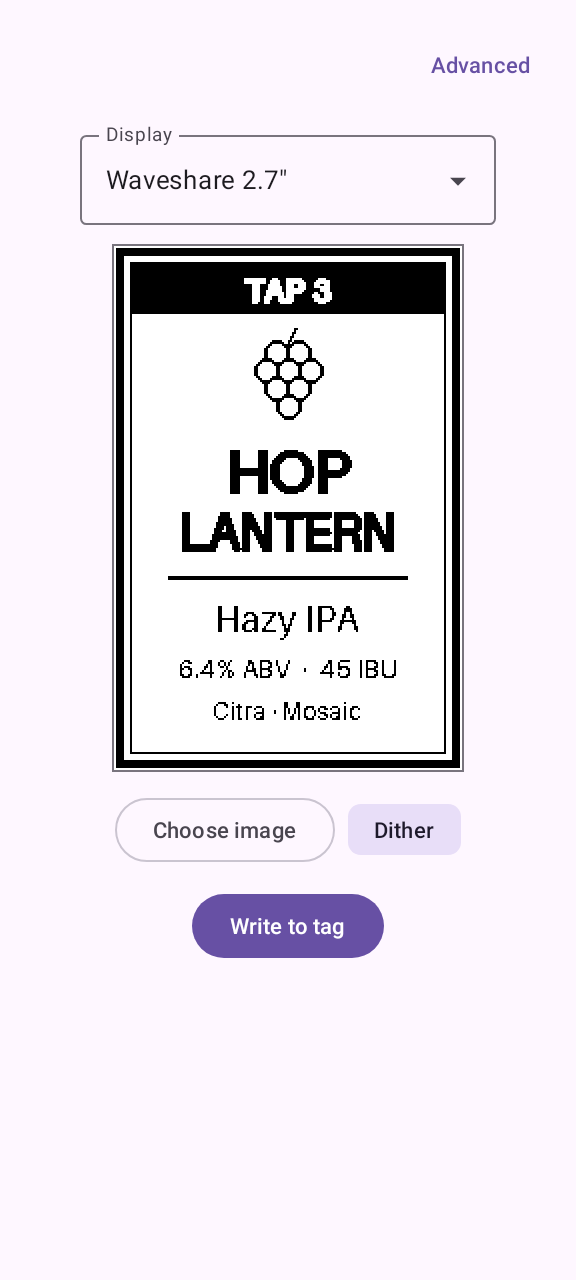
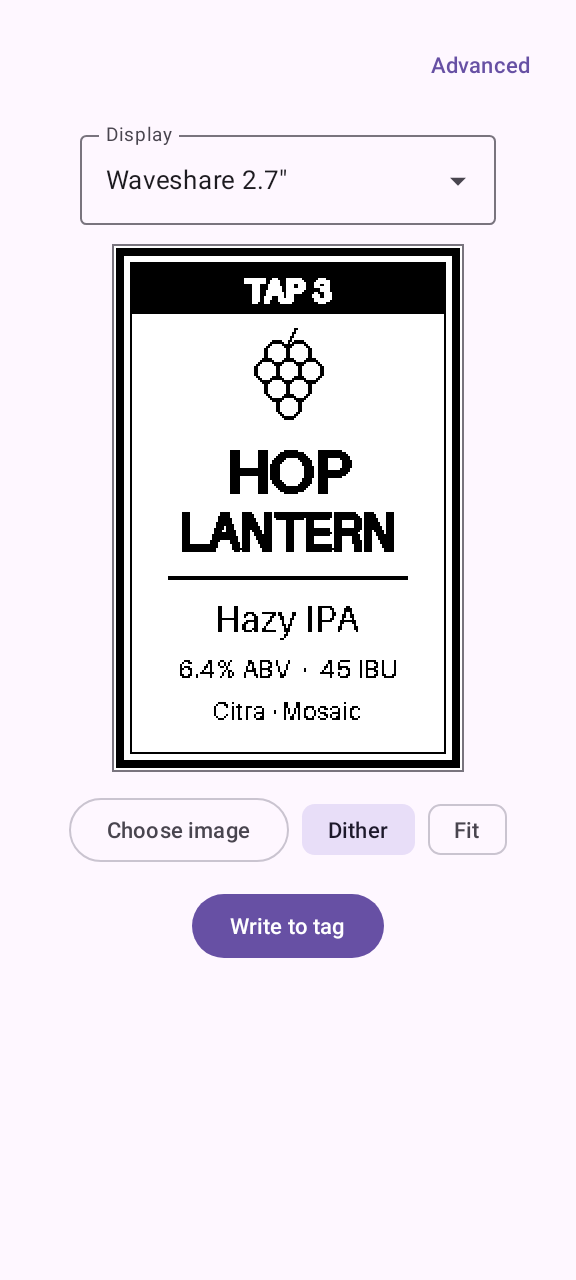
feat(image): fit the whole image to the display
A Fit toggle (off by default) scales the whole image to fit inside the
display's view, centered on white, instead of center-cropping it to fill
the view. A label made for one display then shows in full on another.

Refs #156

Claude-Session: https://claude.ai/code/session_01CSVrYTaHT3oZAKmMpNWTQj

Changed region(s): [[0.1875, 0.625, 0.8438, 0.6875]]

diff --git a/sharedUI/src/commonMain/kotlin/io/github/cacack/keginker/WriteSession.kt b/sharedUI/src/commonMain/kotlin/io/github/cacack/keginker/WriteSession.kt
@@ -33,7 +33,7 @@ class WriteSession(
     private var source: FittedImage? = null
 
     /** [source], or the test pattern, cropped and scaled to the display's view. */
-    private var fitted = fit(null, display)
+    private var fitted = fit(null, display, letterbox = false)
 
     private val sourceIsTestPattern get() = source == null
 
@@ -47,6 +47,11 @@ class WriteSession(
 
     /** Whether labels are in color on displays that show it; otherwise black and white. */
     val color: StateFlow<Boolean> = mutableColor
+
+    private val mutableLetterbox = MutableStateFlow(false)
+
+    /** Whether the whole image shows, on white; otherwise it's center-cropped to fill the view. */
+    val letterbox: StateFlow<Boolean> = mutableLetterbox
 
     /** The image exactly as the display will show it: indices into its palette. */
     private val mutableView = MutableStateFlow(renderView(display, fitted, mutableDither.value, mutableColor.value))
@@ -82,7 +87,7 @@ class WriteSession(
         if (writing || display == mutableDisplay.value) return
         mutableDisplay.value = display
         controller.choose(display)
-        fitted = fit(source, display)
+        fitted = fit(source, display, mutableLetterbox.value)
         rerender()
     }
 
@@ -98,6 +103,14 @@ class WriteSession(
     fun toggleColor() {
         if (writing) return
         mutableColor.value = !mutableColor.value
+        rerender()
+    }
+
+    /** Switches between filling the view and showing the whole image. Ignored while a write is running. */
+    fun toggleLetterbox() {
+        if (writing) return
+        mutableLetterbox.value = !mutableLetterbox.value
+        fitted = fit(source, mutableDisplay.value, mutableLetterbox.value)
         rerender()
     }
 
@@ -123,7 +136,7 @@ class WriteSession(
     private fun show(image: FittedImage, keepFailure: Boolean = false) {
         pendingSource = null
         source = image
-        fitted = fit(image, mutableDisplay.value)
+        fitted = fit(image, mutableDisplay.value, mutableLetterbox.value)
         rerender(keepFailure)
     }
 
@@ -138,17 +151,20 @@ class WriteSession(
 }
 
 /**
- * A loaded [image] cropped and scaled to every display's view, so choosing a
- * display or re-rendering needs no scaling. Scaling a photo takes a while:
- * make this off the main thread, then hand it to [WriteSession.imageLoaded].
+ * A loaded [image] scaled to every display's view, both cropped and
+ * letterboxed, so choosing a display or re-rendering needs no scaling.
+ * Scaling a photo takes a while: make this off the main thread, then hand it
+ * to [WriteSession.imageLoaded].
  */
 class FittedImage(image: ColorImage) {
-    private val views = LabelDisplay.entries.associateWith { fitView(it, image) }
+    private val filled = LabelDisplay.entries.associateWith { fitView(it, image) }
+    private val letterboxed = LabelDisplay.entries.associateWith { fitView(it, image, letterbox = true) }
 
-    /** The image cropped and scaled to [display]'s view. */
-    internal fun forDisplay(display: LabelDisplay): ColorImage = views.getValue(display)
+    /** The image scaled to [display]'s view: whole on white if [letterbox], otherwise cropped to fill it. */
+    internal fun forDisplay(display: LabelDisplay, letterbox: Boolean): ColorImage =
+        (if (letterbox) letterboxed else filled).getValue(display)
 }
 
-/** [image] for [display], or the test pattern at its size if null. */
-private fun fit(image: FittedImage?, display: LabelDisplay): ColorImage =
-    image?.forDisplay(display) ?: ColorImage.fromGray(testPattern(display.viewWidth, display.viewHeight))
+/** [image] for [display], or the test pattern at its size (which fits either way) if null. */
+private fun fit(image: FittedImage?, display: LabelDisplay, letterbox: Boolean): ColorImage =
+    image?.forDisplay(display, letterbox) ?: ColorImage.fromGray(testPattern(display.viewWidth, display.viewHeight))

diff --git a/iosApp/iosApp/ContentView.swift b/iosApp/iosApp/ContentView.swift
@@ -16,6 +16,8 @@ struct ContentView: View {
     @State private var threshold = Double(DitherThreshold.companion.DEFAULT_LEVEL)
     /// Whether labels are in color on displays that show it; otherwise black and white.
     @State private var color = true
+    /// Whether the whole image shows, on white; otherwise it's cropped to fill the view.
+    @State private var letterbox = false
     /// The image as `fitted.display` will show it; Write waits until that's the chosen display.
     @State private var view: KotlinByteArray?
     /// The preview, built once per render; body re-evaluates on every progress tick.
@@ -48,6 +50,7 @@ struct ContentView: View {
         .onChange(of: dither) { render() }
         .onChange(of: threshold) { render() }
         .onChange(of: color) { render() }
+        .onChange(of: letterbox) { fitInBackground() }
         .onChange(of: pickerItem) { load(pickerItem) }
     }
 
@@ -60,6 +63,7 @@ struct ContentView: View {
                     PhotosPicker("Choose image", selection: $pickerItem, matching: .images)
                         .buttonStyle(.bordered)
                     Toggle("Dither", isOn: $dither).toggleStyle(.button)
+                    Toggle("Fit", isOn: $letterbox).toggleStyle(.button)
                     if display.palette.hasColor {
                         Toggle("Color", isOn: $color).toggleStyle(.button)
                     }
@@ -167,7 +171,7 @@ struct ContentView: View {
     /// Fits and renders the first preview at once, so the screen opens with
     /// it; the app opens on the test pattern, which is quick to make.
     private func fitNow() {
-        fitted = Fitted(display: display, image: fit(source, to: display))
+        fitted = Fitted(display: display, image: fit(source, to: display, letterbox: letterbox))
         render()
     }
 
@@ -176,9 +180,10 @@ struct ContentView: View {
     private func fitInBackground() {
         let source = self.source
         let display = self.display
+        let letterbox = self.letterbox
         fitting?.cancel()
         fitting = Task {
-            let image = await Task.detached { fit(source, to: display) }.value
+            let image = await Task.detached { fit(source, to: display, letterbox: letterbox) }.value
             guard !Task.isCancelled else { return }
             fitted = Fitted(display: display, image: image)
             render()
@@ -212,15 +217,15 @@ struct ContentView: View {
     }
 }
 
-/// An image cropped and scaled to [display]'s view.
+/// An image scaled to [display]'s view.
 private struct Fitted {
     let display: LabelDisplay
     let image: ColorImage
 }
 
-/// Crops and scales [source], or makes the test pattern, for [display]. Scaling
+/// Scales [source], cropped or [letterbox]ed, or makes the test pattern, for [display]. Scaling
 /// a photo takes a while, so it runs off the main actor once the screen is up.
-private func fit(_ source: ColorImage?, to display: LabelDisplay) -> ColorImage {
-    source.map { LabelDisplayKt.fitView(display: display, image: $0) }
+private func fit(_ source: ColorImage?, to display: LabelDisplay, letterbox: Bool) -> ColorImage {
+    source.map { LabelDisplayKt.fitView(display: display, image: $0, letterbox: letterbox) }
         ?? ColorImage.companion.fromGray(image: TestPatternKt.testPattern(width: display.viewWidth, height: display.viewHeight))
 }

diff --git a/sharedUI/src/commonTest/kotlin/io/github/cacack/keginker/WriteSessionTest.kt b/sharedUI/src/commonTest/kotlin/io/github/cacack/keginker/WriteSessionTest.kt
@@ -137,7 +137,7 @@ class WriteSessionTest {
     }
 
     @Test
-    fun ditherAndThresholdAreIgnoredDuringAWrite() = runTest {
+    fun renderingChangesAreIgnoredDuringAWrite() = runTest {
         val session = session()
         val written = session.view.value
         session.write()
@@ -147,9 +147,11 @@ class WriteSessionTest {
         session.toggleDither()
         session.setThreshold(10)
         session.toggleColor()
+        session.toggleLetterbox()
 
         assertContentEquals(written, session.view.value)
         assertTrue(session.color.value)
+        assertEquals(false, session.letterbox.value)
         advanceUntilIdle()
         assertIs<WriteState.Done>(session.controller.state.value)
     }
@@ -200,6 +202,25 @@ class WriteSessionTest {
         session.toggleColor()
 
         assertTrue(session.view.value.all { it == BLACK || it == WHITE })
+        assertEquals(WriteState.Idle, session.controller.state.value)
+    }
+
+    @Test
+    fun fitShowsTheWholeImageOnWhiteAndDisarmsAWaitingWrite() = runTest {
+        val session = session()
+        session.choose(LabelDisplay.EZ_SIGN_2IN9)
+        session.imageLoaded(FittedImage(grayImage(2, 2, ByteArray(4))))
+        assertEquals(false, session.letterbox.value)
+        assertTrue(session.view.value.all { it == BLACK }, "a black square fills the view")
+        session.write()
+
+        session.toggleLetterbox()
+
+        // 128 × 296: the square scales to 128 × 128, with 84 white rows above and below.
+        val rows = session.view.value.toList().chunked(128)
+        assertTrue(rows.take(84).flatten().all { it == WHITE })
+        assertTrue(rows.drop(84).take(128).flatten().all { it == BLACK })
+        assertTrue(rows.drop(212).flatten().all { it == WHITE })
         assertEquals(WriteState.Idle, session.controller.state.value)
     }
 
@@ -260,8 +281,13 @@ class WriteSessionTest {
                 }
                 1 -> {
                     if (random.nextInt(4) == 0) {
-                        steps += "toggle color"
-                        session.toggleColor()
+                        if (random.nextBoolean()) {
+                            steps += "toggle color"
+                            session.toggleColor()
+                        } else {
+                            steps += "toggle letterbox"
+                            session.toggleLetterbox()
+                        }
                     } else {
                         val level = random.nextInt(-10, 266)
                         steps += "threshold $level"

diff --git a/sharedLogic/src/commonMain/kotlin/io/github/cacack/keginker/LabelDisplay.kt b/sharedLogic/src/commonMain/kotlin/io/github/cacack/keginker/LabelDisplay.kt
@@ -6,6 +6,7 @@ import io.github.cacack.keginker.image.Dither
 import io.github.cacack.keginker.image.Palette
 import io.github.cacack.keginker.image.WHITE
 import io.github.cacack.keginker.image.fill
+import io.github.cacack.keginker.image.letterbox
 import io.github.cacack.keginker.image.toBlackWhite
 import io.github.cacack.keginker.image.toPalette
 import io.github.cacack.keginker.waveshare.WavesharePanel
@@ -97,15 +98,18 @@ enum class LabelDisplay(
 }
 
 /**
- * [image] center-cropped and scaled to [display]'s view, ready for
- * [renderView]: in color where the display shows it, otherwise just the gray.
+ * [image] scaled to [display]'s view, ready for [renderView]: center-cropped
+ * to fill it, or whole on white if [letterbox]. In color where the display
+ * shows it, otherwise just the gray.
  */
-fun fitView(display: LabelDisplay, image: ColorImage): ColorImage =
-    if (display.palette.hasColor) {
-        image.fill(display.viewWidth, display.viewHeight)
+fun fitView(display: LabelDisplay, image: ColorImage, letterbox: Boolean = false): ColorImage {
+    val shown = if (display.palette.hasColor) image else ColorImage.fromGray(image.gray)
+    return if (letterbox) {
+        shown.letterbox(display.viewWidth, display.viewHeight)
     } else {
-        ColorImage.fromGray(image.gray.fill(display.viewWidth, display.viewHeight))
+        shown.fill(display.viewWidth, display.viewHeight)
     }
+}
 
 /**
  * The image exactly as [display] will show it: row-major indices into its

diff --git a/sharedLogic/src/commonMain/kotlin/io/github/cacack/keginker/image/Resize.kt b/sharedLogic/src/commonMain/kotlin/io/github/cacack/keginker/image/Resize.kt
@@ -41,6 +41,28 @@ fun GrayImage.fill(width: Int, height: Int): GrayImage {
     return GrayImage(width, height, out)
 }
 
+/**
+ * Scales to fit inside [width] × [height], keeping the aspect ratio, and
+ * centers the result on white: the whole image shows, with white bars on
+ * the sides its shape leaves empty.
+ */
+fun GrayImage.letterbox(width: Int, height: Int): GrayImage {
+    require(width > 0 && height > 0) { "Target must be at least 1×1, was ${width}×$height" }
+    val wide = this.width.toLong() * height >= this.height.toLong() * width
+    val innerWidth = if (wide) width else roundedScale(this.width, height, this.height).coerceIn(1, width)
+    val innerHeight = if (wide) roundedScale(this.height, width, this.width).coerceIn(1, height) else height
+    val inner = fill(innerWidth, innerHeight)
+    val left = (width - innerWidth) / 2
+    val top = (height - innerHeight) / 2
+
+    val out = ByteArray(width * height) { 255.toByte() }
+    for (y in 0 until innerHeight) inner.pixels.copyInto(out, (top + y) * width + left, y * innerWidth, (y + 1) * innerWidth)
+    return GrayImage(width, height, out)
+}
+
+/** [length] × [to] / [from], rounded to the nearest whole pixel. */
+private fun roundedScale(length: Int, to: Int, from: Int) = ((2L * length * to + from) / (2L * from)).toInt()
+
 /** The source pixels from [first] on that one output cell overlaps along an axis, and by how many units each. */
 private class Coverage(val first: Int, val weights: LongArray)
 

diff --git a/sharedLogic/src/commonMain/kotlin/io/github/cacack/keginker/image/ColorImage.kt b/sharedLogic/src/commonMain/kotlin/io/github/cacack/keginker/image/ColorImage.kt
@@ -42,10 +42,16 @@ class ColorImage(val gray: GrayImage, val red: GrayImage, val green: GrayImage, 
     }
 }
 
-/** Every channel [fill]ed to exactly [width] × [height]; a gray image's one channel, once. */
-fun ColorImage.fill(width: Int, height: Int): ColorImage =
+/** Every channel [fill]ed to exactly [width] × [height]. */
+fun ColorImage.fill(width: Int, height: Int): ColorImage = mapChannels { it.fill(width, height) }
+
+/** Every channel [letterbox]ed into [width] × [height], on white. */
+fun ColorImage.letterbox(width: Int, height: Int): ColorImage = mapChannels { it.letterbox(width, height) }
+
+/** [transform] applied to every channel; a gray image's one channel, once. */
+private fun ColorImage.mapChannels(transform: (GrayImage) -> GrayImage): ColorImage =
     if (red === gray && green === gray && blue === gray) {
-        ColorImage.fromGray(gray.fill(width, height))
+        ColorImage.fromGray(transform(gray))
     } else {
-        ColorImage(gray.fill(width, height), red.fill(width, height), green.fill(width, height), blue.fill(width, height))
+        ColorImage(transform(gray), transform(red), transform(green), transform(blue))
     }

diff --git a/sharedUI/src/androidMain/kotlin/io/github/cacack/keginker/App.kt b/sharedUI/src/androidMain/kotlin/io/github/cacack/keginker/App.kt
@@ -87,6 +87,7 @@ fun App(
     val state by model.controller.state.collectAsState()
     val dither by model.dither.collectAsState()
     val color by model.color.collectAsState()
+    val letterbox by model.letterbox.collectAsState()
     val view by model.view.collectAsState()
     val loadError by model.loadError.collectAsState()
     val display by model.display.collectAsState()
@@ -201,6 +202,12 @@ fun App(
                         enabled = !busy,
                         onClick = model::toggleDither,
                         label = { Text("Dither") },
+                    )
+                    FilterChip(
+                        selected = letterbox,
+                        enabled = !busy,
+                        onClick = model::toggleLetterbox,
+                        label = { Text("Fit") },
                     )
                     if (display.palette.hasColor) {
                         FilterChip(

diff --git a/sharedUI/src/androidMain/kotlin/io/github/cacack/keginker/WriteViewModel.kt b/sharedUI/src/androidMain/kotlin/io/github/cacack/keginker/WriteViewModel.kt
@@ -35,6 +35,9 @@ class WriteViewModel(display: LabelDisplay = LabelDisplay.WAVESHARE_2IN7) : View
     /** Whether labels are in color on displays that show it. */
     val color: StateFlow<Boolean> = session.color
 
+    /** Whether the whole image shows, on white; otherwise it's cropped to fill the view. */
+    val letterbox: StateFlow<Boolean> = session.letterbox
+
     /** The image exactly as the display will show it: indices into its palette. */
     val view: StateFlow<ByteArray> = session.view
 
@@ -102,6 +105,8 @@ class WriteViewModel(display: LabelDisplay = LabelDisplay.WAVESHARE_2IN7) : View
     fun toggleDither() = session.toggleDither()
 
     fun toggleColor() = session.toggleColor()
+
+    fun toggleLetterbox() = session.toggleLetterbox()
 
     /** Sets where gray becomes black (0–255) when dithering is off. */
     fun setThreshold(level: Int) = session.setThreshold(level)

diff --git a/sharedLogic/src/commonTest/kotlin/io/github/cacack/keginker/image/ResizeTest.kt b/sharedLogic/src/commonTest/kotlin/io/github/cacack/keginker/image/ResizeTest.kt
@@ -19,6 +19,27 @@ class ResizeTest {
     }
 
     @Test
+    fun letterboxesAWideImageBetweenWhiteBarsAboveAndBelow() {
+        val wide = gray(4, 2, 0, 100, 200, 50, 0, 100, 200, 50)
+
+        assertEquals(listOf(255, 255, 50, 125, 255, 255), wide.letterbox(2, 3).values())
+    }
+
+    @Test
+    fun letterboxesATallImageBetweenWhiteBarsLeftAndRight() {
+        val tall = gray(2, 4, 0, 0, 100, 100, 200, 200, 50, 50)
+
+        assertEquals(listOf(255, 50, 255, 255, 125, 255), tall.letterbox(3, 2).values())
+    }
+
+    @Test
+    fun anImageOfTheTargetsShapeLetterboxesAsItFills() {
+        val image = gray(4, 2, 0, 40, 200, 255, 80, 120, 10, 30)
+
+        assertEquals(image.fill(2, 1).values(), image.letterbox(2, 1).values())
+    }
+
+    @Test
     fun downscalingAveragesEachBlock() {
         val image = gray(
             4, 4,

diff --git a/USAGE.md b/USAGE.md
@@ -24,7 +24,10 @@ families involved.
    that display's size; it starts with a test pattern whose solid corner
    marks the top-left. If you hold a different display to the phone,
    nothing is written and KegInker tells you which display to choose.
-2. Optionally tap **Choose image**. Photos are center-cropped to the panel.
+2. Optionally tap **Choose image**. Photos are center-cropped to fill the
+   display; turn on **Fit** to show the whole image instead, with white
+   where its shape doesn't fill the display, as for a label made for a
+   different display.
    Images up to 120 megapixels open (on Android, files up to 64 MB).
    Turn **Dither** off for text and logos; the slider that appears sets which
    grays become black. Raise it if light text in your image breaks up.
